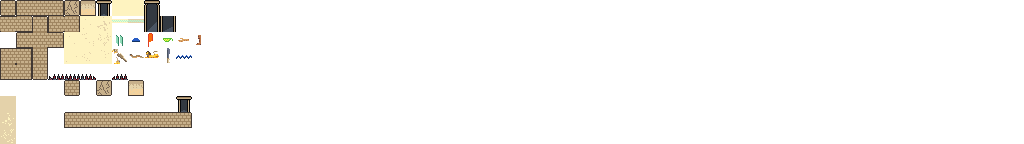
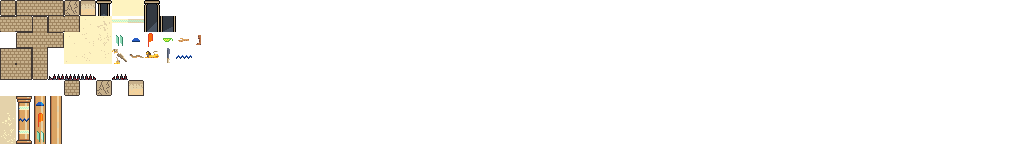
level 10 and endscreen added

Changed region(s): [[0.0, 0.6667, 0.1875, 1.0]]

diff --git a/main.py b/main.py
@@ -47,7 +47,7 @@ class Game:
         self.screen.blit(text_surface, text_rect)
 
     def load_data(self):
-        self.current_level = 'level6.tmx'
+        self.current_level = 'level1.tmx'
         game_folder = path.dirname(__file__)
         self.img_folder =  path.join(game_folder, 'img')
         music_folder = path.join(game_folder, 'music')
@@ -98,6 +98,7 @@ class Game:
         self.state = State.PLAY
         self.all_sprites = pg.sprite.LayeredUpdates()
         self.walls = pg.sprite.Group()
+        self.mob_walls = pg.sprite.Group()
         self.spikes = pg.sprite.Group()
         self.mobs = pg.sprite.Group()
         self.bullets = pg.sprite.Group()
@@ -115,6 +116,9 @@ class Game:
             if tile_object.name == 'wall':
                 Obstacle(self, tile_object.x * TILE_SIZE_MULTIPLIER, tile_object.y * TILE_SIZE_MULTIPLIER,
                          tile_object.width * TILE_SIZE_MULTIPLIER, tile_object.height * TILE_SIZE_MULTIPLIER)
+            if tile_object.name == 'mob_wall':
+                MobWall(self, tile_object.x * TILE_SIZE_MULTIPLIER, tile_object.y * TILE_SIZE_MULTIPLIER,
+                         tile_object.width * TILE_SIZE_MULTIPLIER, tile_object.height * TILE_SIZE_MULTIPLIER)
             if tile_object.name == 'temp_plat':
                 TempPlatform(self, tile_object.x * TILE_SIZE_MULTIPLIER, tile_object.y * TILE_SIZE_MULTIPLIER,
                          tile_object.width * TILE_SIZE_MULTIPLIER, tile_object.height * TILE_SIZE_MULTIPLIER)
@@ -125,9 +129,6 @@ class Game:
                 self.player = Player(self, tile_object.x * TILE_SIZE_MULTIPLIER,
                                      (tile_object.y + tile_object.height) * TILE_SIZE_MULTIPLIER)
             if tile_object.name == 'mob':
-                Mob(self, tile_object.x * TILE_SIZE_MULTIPLIER,
-                    (tile_object.y + tile_object.height) * TILE_SIZE_MULTIPLIER)
-            if tile_object.name == 'path_mob':
                 Mob(self, tile_object.x * TILE_SIZE_MULTIPLIER,
                     (tile_object.y + tile_object.height) * TILE_SIZE_MULTIPLIER)
             if tile_object.name == 'teleport':
@@ -187,11 +188,14 @@ class Game:
                     #Gib(self, hits[mob][0].pos)
                     mob.kill()
 
-            # player hits teleportsd
+            # player hits teleports
             hits = pg.sprite.spritecollide(self.player, self.teleports, False)
             for hit in hits:
                 self.current_level = hit.destination
-                self.state = State.CHANGE_LEVEL
+                if self.current_level == 'End of Game':
+                    self.state = State.GAME_WON
+                else:
+                    self.state = State.CHANGE_LEVEL
                 self.playing = False
 
     def events(self):
@@ -211,6 +215,9 @@ class Game:
             if event.type == pg.KEYUP:
                 if event.key == pg.K_t:
                     self.toggle_hitbox = not self.toggle_hitbox
+            if event.type == pg.KEYDOWN:
+                if event.key == pg.K_DOWN:
+                    self.player_dies()
 
 
 
@@ -223,6 +230,7 @@ class Game:
         if self.toggle_hitbox:
             pg.draw.rect(self.screen, WHITE, self.player.hit_rect, 2)
             self.walls.draw(self.screen)
+            self.mob_walls.draw(self.screen)
             self.spikes.draw(self.screen)
             for mob in self.mobs:
                 pg.draw.rect(self.screen, RED, mob.hit_rect, 2 )
@@ -250,6 +258,19 @@ class Game:
         self.draw_text("Press any key to continue", self.title_font, 25, WHITE,
                        WIDTH / 2, HEIGHT * 0.6, align="center")
         pg.display.flip()
+        self.wait_for_key()
+
+    def show_end_screen(self):
+
+        self.screen.fill(BLACK)
+        self.draw_text("YOU DID IT !!!!", self.title_font, 50, RED,
+                       WIDTH / 2, HEIGHT * 0.25 , align="center")
+        self.draw_text('You finished the game', self.title_font, 25, WHITE,
+                       WIDTH / 2, HEIGHT * 0.4, align="center")
+        self.draw_text("Now rest", self.title_font, 20, WHITE,
+                       WIDTH / 2, HEIGHT * 3 / 4, align="center")
+        pg.display.flip()
+        self.current_level = 'level1.tmx'
         self.wait_for_key()
 
     def show_start_screen(self):
@@ -289,9 +310,11 @@ class State(Enum):
     PLAY = 3
     GAME_OVER = 4
     CHANGE_LEVEL = 5
+    GAME_WON = 6
 
 g = Game()
 g.show_start_screen()
+
 
 while g.running:
     g.new()
@@ -300,5 +323,7 @@ while g.running:
         g.show_next_level_screen()
     elif g.state == State.GAME_OVER:
         g.show_go_screen()
+    elif g.state == State.GAME_WON:
+        g.show_end_screen()
 
 pg.quit()

diff --git a/sprites.py b/sprites.py
@@ -194,6 +194,15 @@ class Obstacle(pg.sprite.Sprite):
         self.rect = self.image.get_rect()
         self.rect.topleft = (x, y)
 
+class MobWall(pg.sprite.Sprite):
+    def __init__(self, game, x, y, w, h):
+        self.groups =  game.mob_walls
+        pg.sprite.Sprite.__init__(self, self.groups)
+        self.image = pg.Surface((w,h))
+        self.image.fill(YELLOW)
+        self.rect = self.image.get_rect()
+        self.rect.topleft = (x, y)
+
 class TempPlatform(pg.sprite.Sprite):
     def __init__(self, game, x, y, w, h):
         self.groups =  game.all_sprites, game.walls
@@ -303,11 +312,13 @@ class Mob(pg.sprite.Sprite):
         #update position, v+1/2Gamma (not squared?) and collisions
         self.pos.y += self.vel.y + 0.5 * self.acc.y
         self.hit_rect.bottom = self.pos.y
+        collide_with_walls(self, self.game.mob_walls, 'y')
         collide_with_walls(self, self.game.walls, 'y')
         self.rect.bottom = self.hit_rect.bottom
 
         self.pos.x += self.vel.x + 0.5 * self.acc.x
         self.hit_rect.centerx = self.pos.x
+        collide_with_walls(self, self.game.mob_walls, 'x')
         collide_with_walls(self, self.game.walls, 'x')
         self.rect.centerx = self.hit_rect.centerx
 
@@ -359,6 +370,7 @@ class Teleport(pg.sprite.Sprite):
         self.rect.x = x
         self.rect.y = y
         self.destination = dest
+
 
 class MuzzleFlash(pg.sprite.Sprite):
     def __init__(self, game, pos, direction):

diff --git a/README.md b/README.md
@@ -10,7 +10,7 @@ Left ctrl or Left alt to Shoot
 Press "t" for toggling debug (shows hitboxes)
 
 
-2D Art and Music made by Mathias Gilli
+2D Art and Music made by mgilli
 
 2D Art and Music is licensed under a Creative Commons Attribution-NonCommercial-ShareAlike 4.0 International License.
 http://creativecommons.org/licenses/by-nc-sa/4.0/
